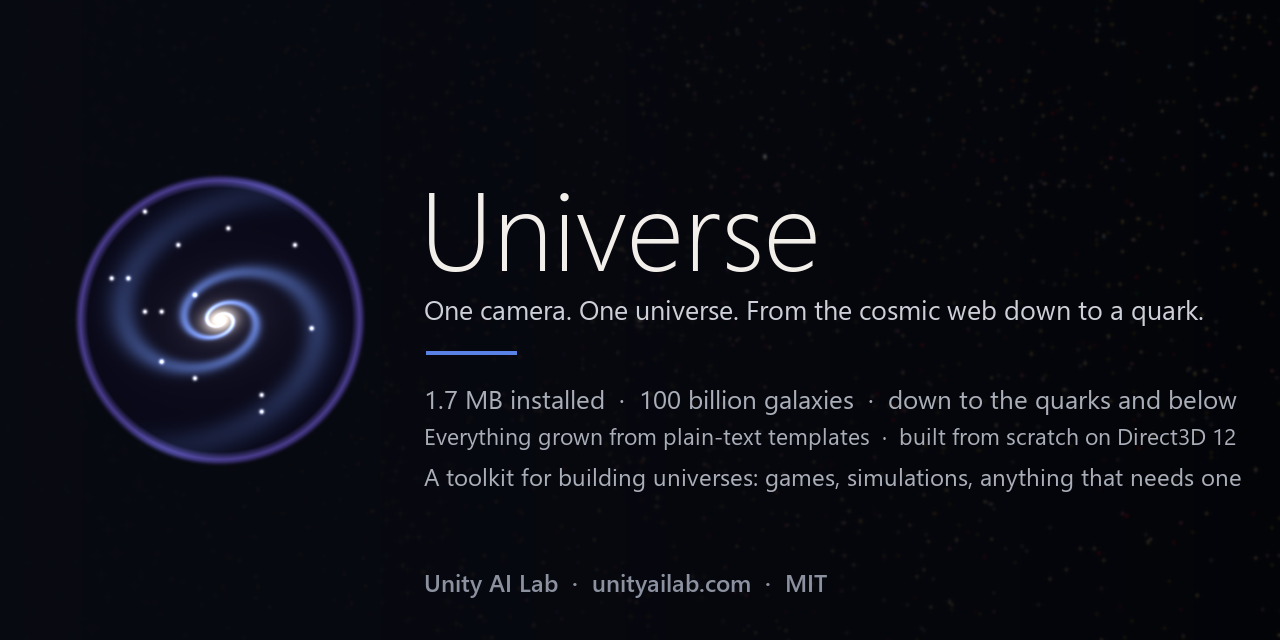
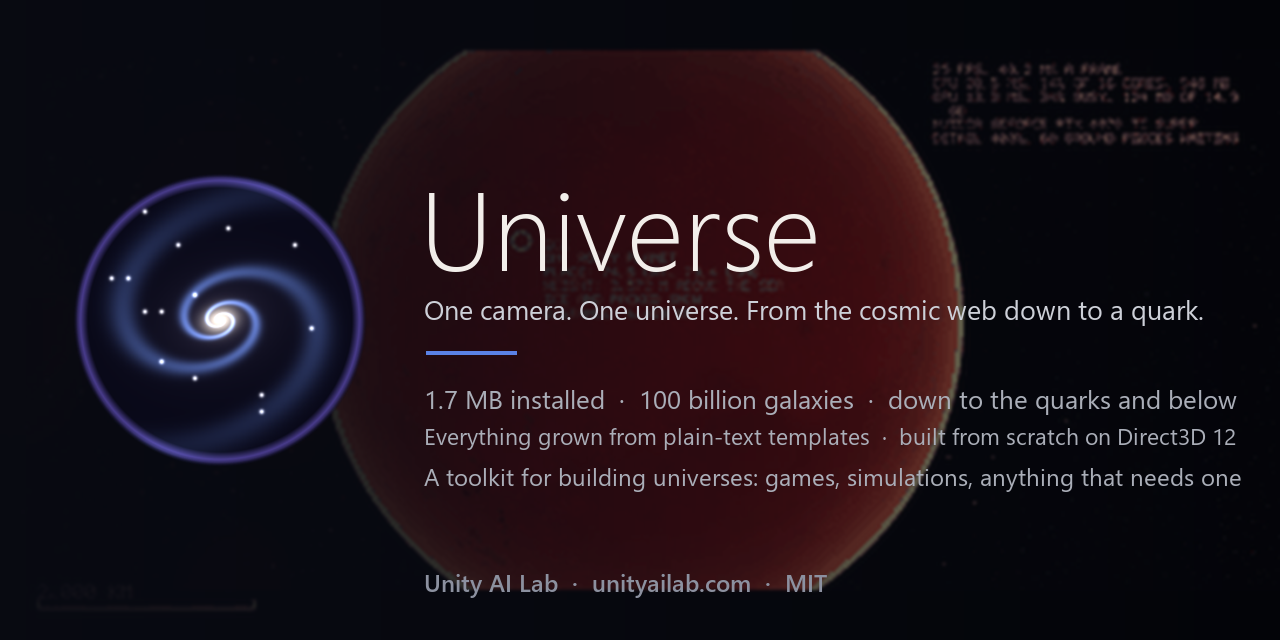
A pick's card never lands on the frame counter and stats; the readme's clip is the grand tour as the game recorded it, the social image on its frames

diff --git a/src/shell/UniverseView.cs b/src/shell/UniverseView.cs
@@ -136,6 +136,7 @@ namespace Universe.Shell
         // as a glow of points along the same web; the edge cannot be passed ──
         private List<string> _types, _typeNames; private ulong _seed;
         private double _farScale;                                                         // how far out the wheel has zoomed (universe units): out grows it, in brings it back
+        private double _statsLeft = double.MaxValue, _statsBottom;   // the frame counter and stats card's left edge and bottom on screen, so no other card lands on it
         private double _uRadius = 134000, _uGalaxies = 1e11, _webUnits = 4000, _webContrast = 6, _regionUnits = 20, _nearUnits = 400; private int _glowPoints = 300000;
         private double _darkMatter, _rimSpeed = 220, _darkEnergy, _hubble = 70;   // the dark universe (content/physics.unt @law cosmos): for the galaxies' cards and the horizon's words
         private readonly HashSet<long> _regions = new HashSet<long>(); private long _lastRegionCell = long.MinValue;
@@ -3001,8 +3002,11 @@ namespace Universe.Shell
                 if (stats) sl.AddRange(Stats.Lines);
                 int longest = 0; foreach (var l in sl) longest = Math.Max(longest, l.Length);
                 double spx = Math.Max(1, h / 540.0), scw = longest * 6.6 * spx + 12 * spx;
-                _hud.DrawCard(_meshes, sl, w - scw - 8 * spx, _tour != null ? h * 0.11 : 12 * Math.Max(1, h / 1080.0), w, h);
+                double sy0 = _tour != null ? h * 0.11 : 12 * Math.Max(1, h / 1080.0);
+                _hud.DrawCard(_meshes, sl, w - scw - 8 * spx, sy0, w, h);
+                _statsLeft = w - scw - 8 * spx; _statsBottom = sy0 + sl.Count * 11 * spx + 12 * spx;   // (where the stats sit: a pick's card never lands on them)
             }
+            else { _statsLeft = w; _statsBottom = 0; }
             double mdx, mdy, mdz, mrad, msx, msy;
             if (_tKind >= 0 && _matterScale <= 0 && TargetFromCamera(out mdx, out mdy, out mdz, out mrad) && ToScreen(mdx, mdy, mdz, out msx, out msy))
             {
@@ -3010,7 +3014,18 @@ namespace Universe.Shell
                 double rpx = Math.Max(14 * Math.Max(1, h / 1080.0), mrad / Math.Max(1e-30, l) / Math.Tan(0.45) * h * 0.5 * 1.25);
                 bool fills = rpx > h * 0.45;                                           // bigger than the view: no ring, the card sits top left
                 if (!fills) _hud.DrawRing(_meshes, msx, msy, rpx, w, h);
-                if (_hud.Visible) { if (fills) _hud.DrawCard(_meshes, Card(), 24 * Math.Max(1, h / 1080.0), _tour != null ? h * 0.11 : 24 * Math.Max(1, h / 1080.0), w, h); else _hud.DrawCard(_meshes, Card(), msx + rpx + 12 * Math.Max(1, h / 1080.0), msy - rpx, w, h); }
+                if (_hud.Visible)
+                {
+                    if (fills) _hud.DrawCard(_meshes, Card(), 24 * Math.Max(1, h / 1080.0), _tour != null ? h * 0.11 : 24 * Math.Max(1, h / 1080.0), w, h);
+                    else
+                    {
+                        // beside what you picked; never over the frame counter and the stats at the top right (a card drawn there
+                        // garbled both): under them instead
+                        double cx0 = msx + rpx + 12 * Math.Max(1, h / 1080.0), cy0 = msy - rpx;
+                        if (cy0 < _statsBottom && cx0 > _statsLeft - w * 0.3) cy0 = _statsBottom + 8 * Math.Max(1, h / 1080.0);
+                        _hud.DrawCard(_meshes, Card(), cx0, cy0, w, h);
+                    }
+                }
             }
         }
 

diff --git a/README.md b/README.md
@@ -30,9 +30,9 @@
 
 ## Fall through everything
 
-![One zoom from a sky full of galaxies down to a world's ground](docs/img/journey.gif "One zoom, galaxies to ground, recorded in the game")
+![The grand tour: from the cosmic web into a galaxy, to a comet, down to a world, its ground and the face of a grain](docs/img/journey.gif "The grand tour, recorded in the game")
 
-*One zoom from a sky full of galaxies, into a galaxy, past its stars, to a world and down to its ground. Recorded in the game.*
+*The grand tour, as the game records it: from the cosmic web into a galaxy, past its stars, to a comet, down to a world, its ground and the face of one grain.*
 
 Pull back and galaxies are pinpoints on the **cosmic web**. Roll the wheel and one grows into an island of stars. Keep going.
 
